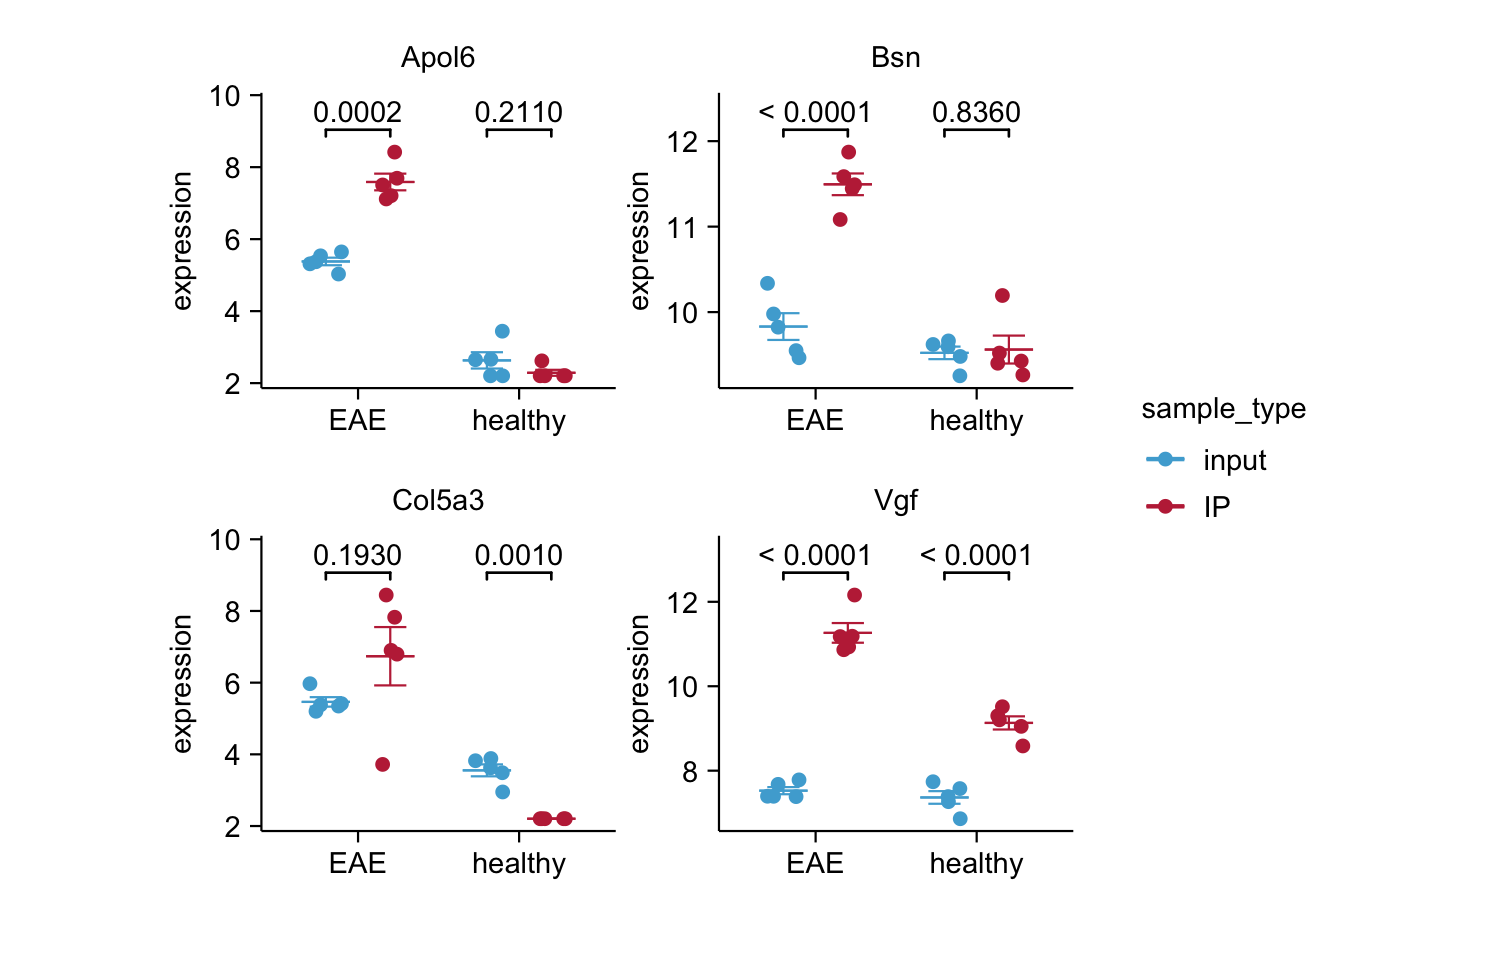
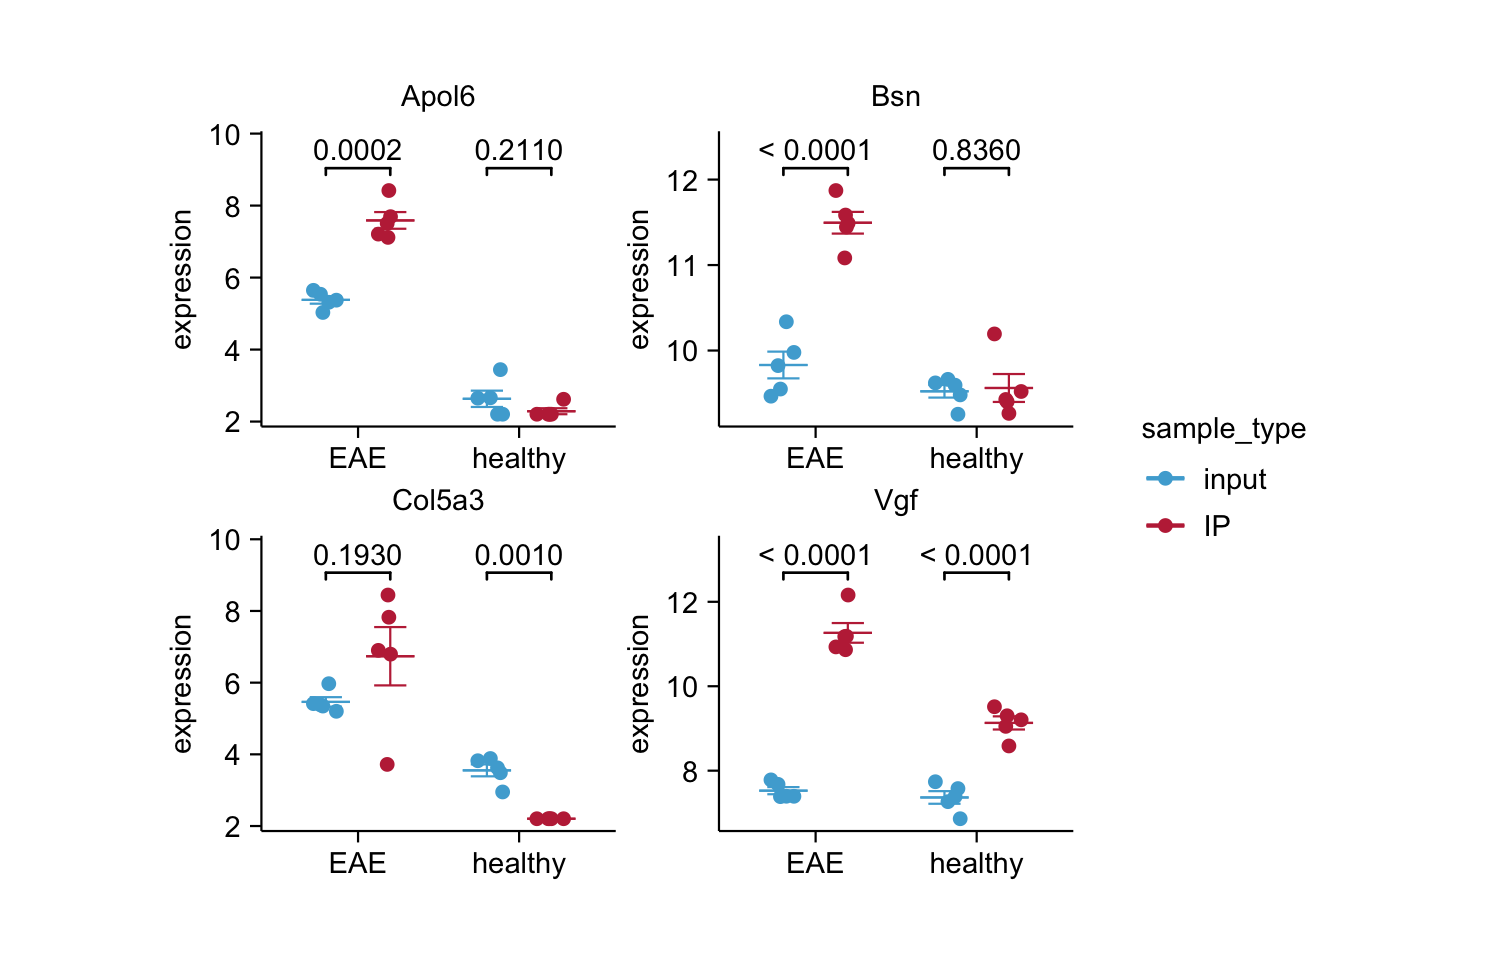
update readme

diff --git a/README.md b/README.md
@@ -7,10 +7,10 @@
 <!-- badges: end -->
 
 tidyplots streamlines the creation of publication-ready plots for
-scientific papers, making it incredibly easy to incorporate and refine
-plot elements. It allows precise control over composition, style, and
+scientific papers, making it incredibly easy to add and refine plot
+elements. It allows precise control over composition, style, and
 absolute sizes, while its utilization of the pipe `%>%` simplifies the
-construction of powerful plotting pipelines.
+construction of advanced plotting pipelines.
 
 ## Installation
 
@@ -108,11 +108,30 @@ gene_expression %>%
   add_error() %>% 
   add_jitter() %>% 
   add_stats_pvalue(include_info = FALSE) %>% 
-  adjust_x_axis(title = "") %>% 
+  remove_x_axis_title() %>% 
   split_plot(by = external_gene_name)
 ```
 
 <img src="man/figures/README-unnamed-chunk-10-1.png" style="display: block; margin: auto;" />
+
+``` r
+
+pipe_end <- function(gg) { invisible(gg) }
+
+gene_expression %>% 
+  tidyplot(x = condition, y = expression, color = sample_type) %>% 
+  add_mean_dash() %>% 
+  add_error() %>% 
+  add_jitter() %>% 
+  add_stats_pvalue(include_info = FALSE) %>% 
+  remove_x_axis_title() %>% 
+  render_plot(data = filter_rows(external_gene_name == "Apol6"), title = "Apol6") %>% 
+  render_plot(data = filter_rows(external_gene_name == "Bsn"), title = "Bsn") %>% 
+  render_plot(data = filter_rows(external_gene_name == "Vgf"), title = "Vgf") %>% 
+  pipe_end()
+```
+
+<img src="man/figures/README-unnamed-chunk-11-1.png" style="display: block; margin: auto;" /><img src="man/figures/README-unnamed-chunk-11-2.png" style="display: block; margin: auto;" /><img src="man/figures/README-unnamed-chunk-11-3.png" style="display: block; margin: auto;" />
 
 ## Acknowledgements
 

diff --git a/NEWS.md b/NEWS.md
@@ -1,5 +1,5 @@
 # tidyplots 0.0.1
 
-* Initial release. tidyplots streamlines the creation of publication-ready plots for scientific papers, making it incredibly easy to incorporate and refine plot elements. It allows precise control over composition, style, and absolute sizes, while its utilization of the pipe `%>%` simplifies the construction of powerful plotting pipelines.
+* Initial release. tidyplots streamlines the creation of publication-ready plots for scientific papers, making it incredibly easy to add and refine plot elements. It allows precise control over composition, style, and absolute sizes, while its utilization of the pipe `%>%` simplifies the construction of advanced plotting pipelines.
 
 * The package is still in early development. Expect user-facing and breaking changes.
